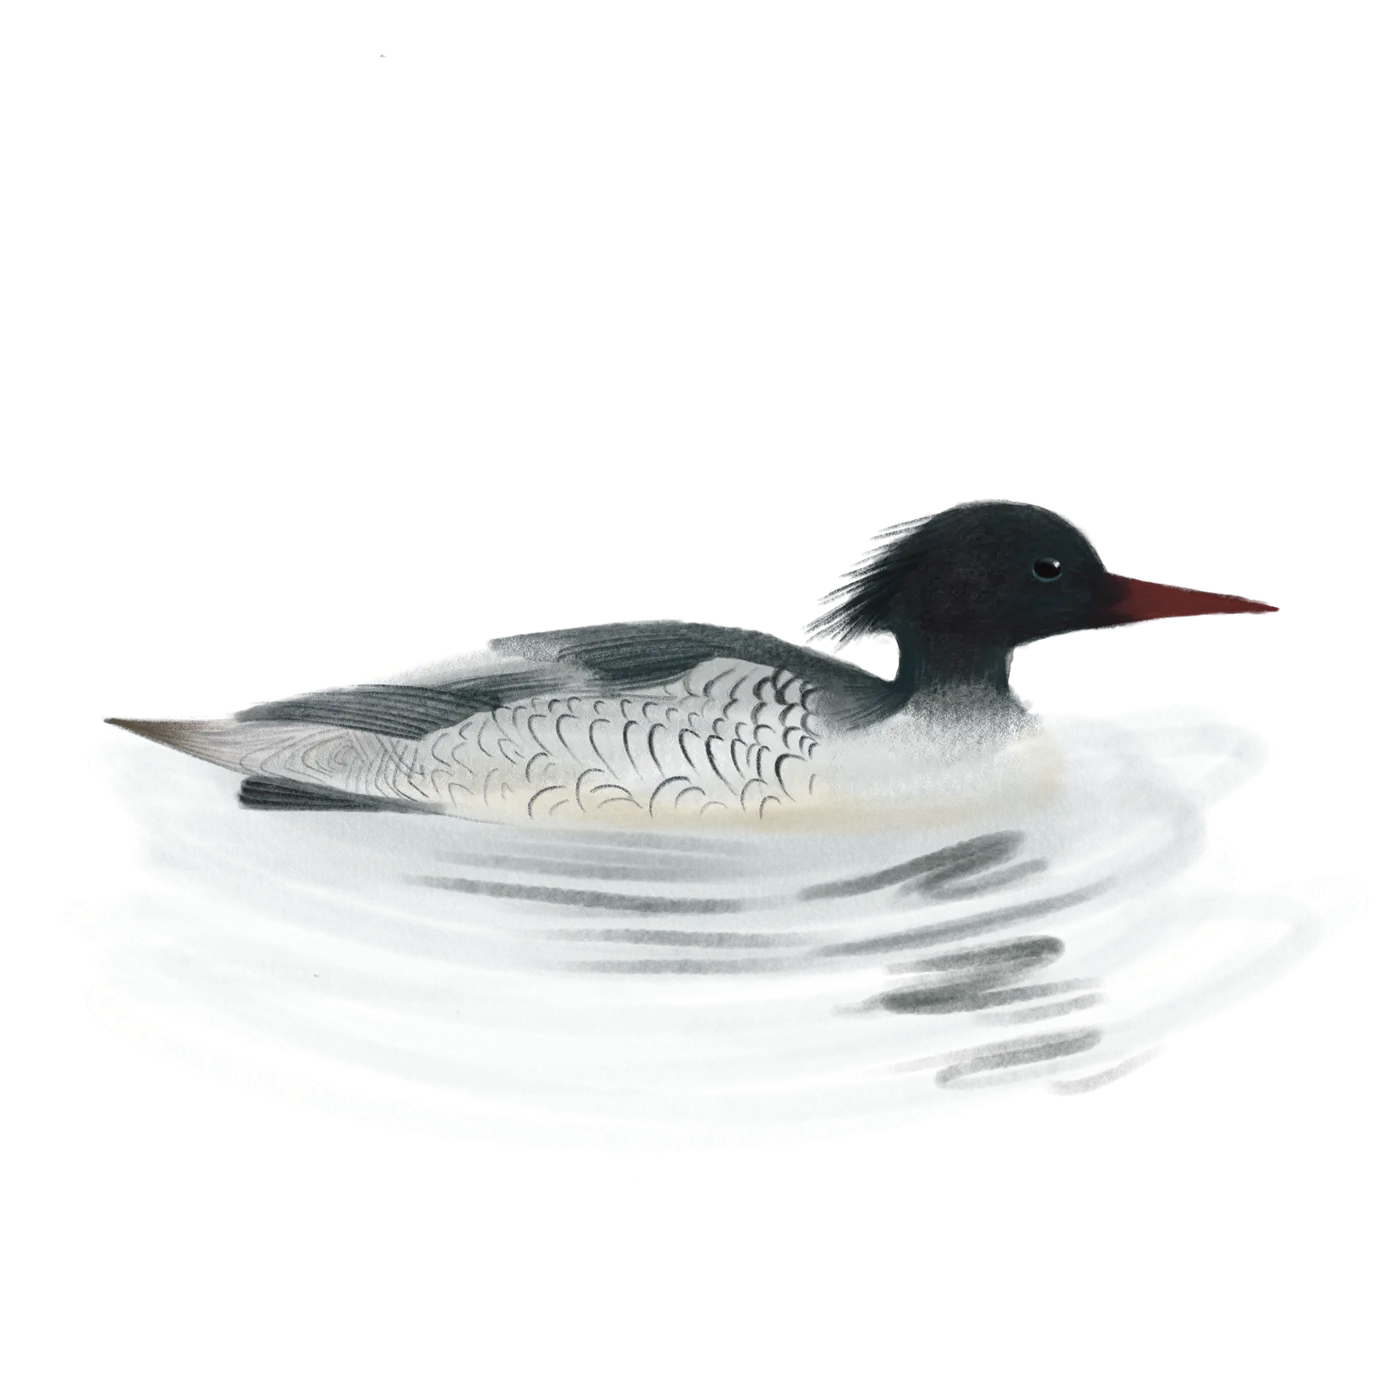
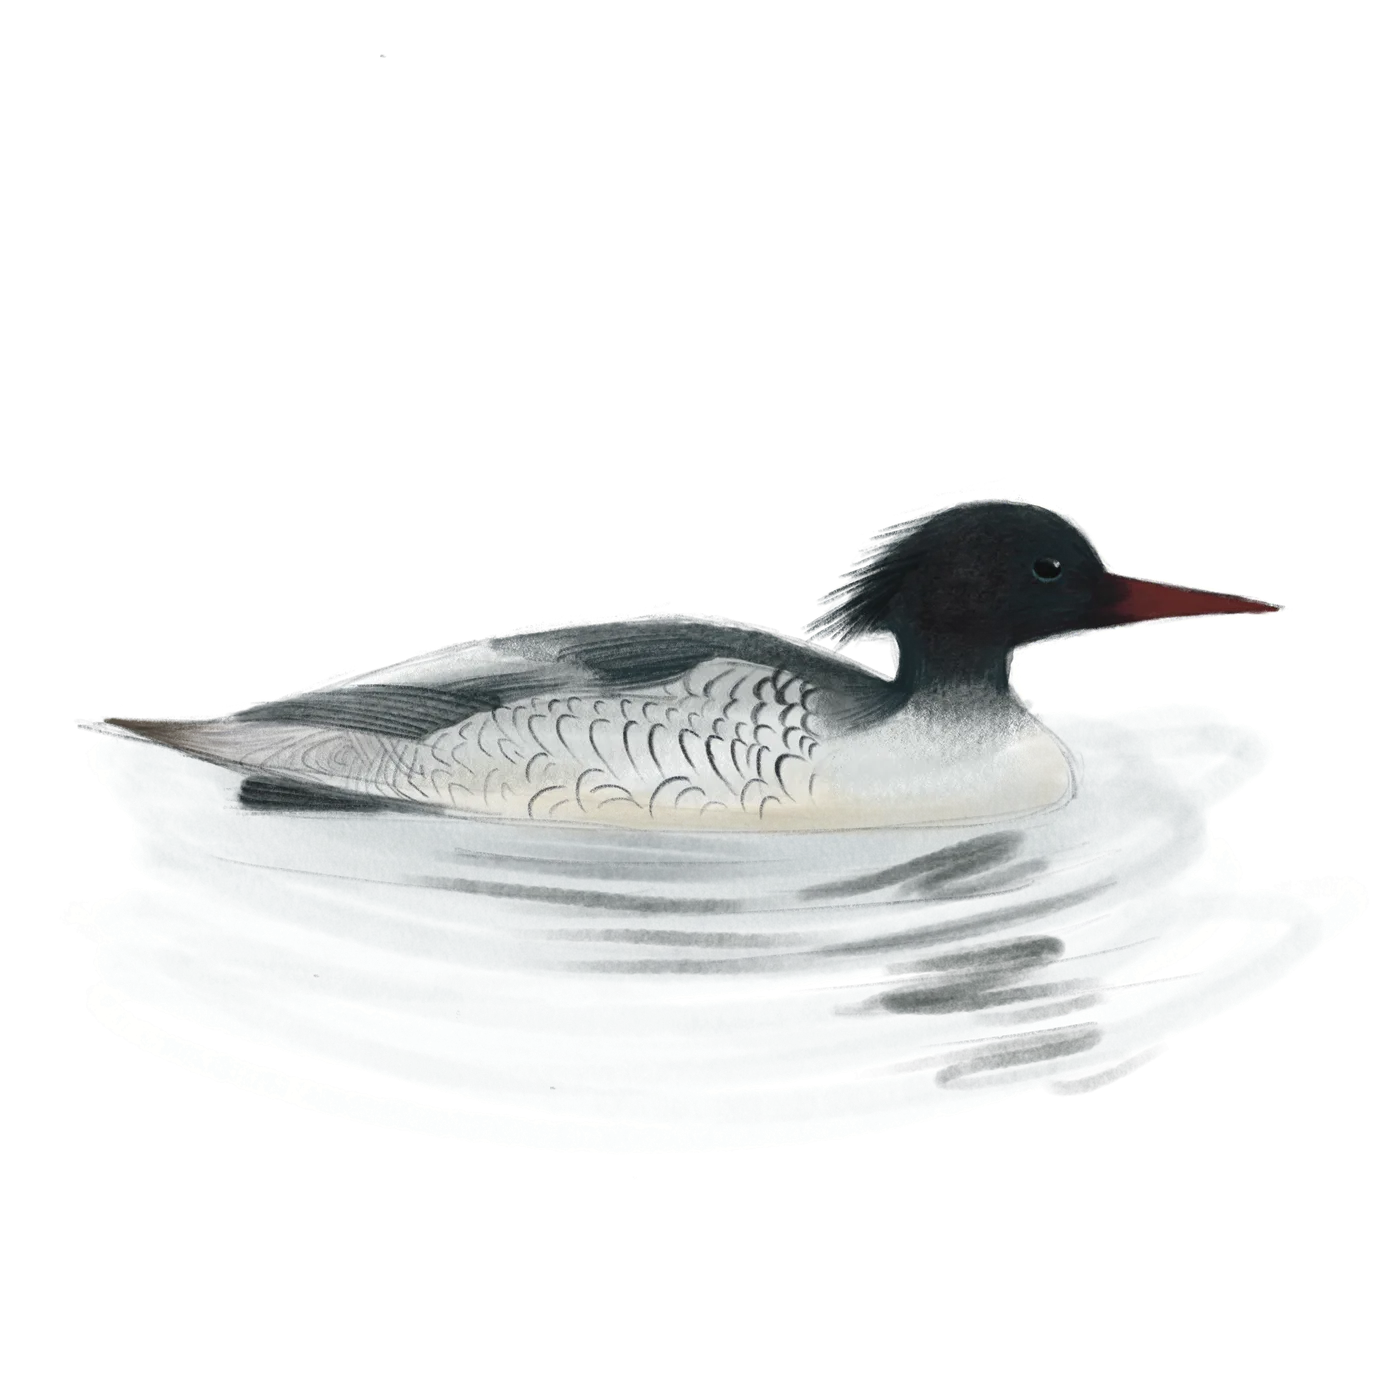
add birds

diff --git a/src/data/artworks.js b/src/data/artworks.js
@@ -223,6 +223,92 @@ export const artworks = [
     conservationStatus: 'EN',
     conservationUrl: 'https://www.iucnredlist.org/species/22680488/244637355',
   },
+  {
+    id: 'chinese_egret',
+    name: 'Chinese Egret',
+    scientificName: 'Egretta eulophotes',
+    lat: 22.5339057604,
+    lng: 114.0322714613,
+    credit: '© gavingoodwan',
+    observationUrl: 'https://www.inaturalist.org/observations/207369546',
+    observedOn: 'April 2024',
+    hasSketch: true,
+    conservationStatus: 'VU',
+    conservationUrl: 'https://www.iucnredlist.org/species/22696977/154698211',
+  },
+  {
+    id: 'ruby_throated_hummingbird',
+    name: 'Ruby-throated Hummingbird',
+    scientificName: 'Archilochus colubris',
+    lat: 35.7732343,
+    lng: -78.8416089,
+    credit: '© srsincary',
+    observationUrl: 'https://www.inaturalist.org/observations/410416358',
+    observedOn: 'Aug 17, 2026 · 10:03 AM EDT',
+    hasSketch: true,
+    conservationStatus: 'LC',
+  },
+  {
+    id: 'mountain_chickadee',
+    name: 'Mountain Chickadee',
+    scientificName: 'Poecile gambeli',
+    lat: 40.3427932,
+    lng: -105.6836389,
+    credit: '© dsmith81',
+    observationUrl: 'https://www.inaturalist.org/observations/410383445',
+    observedOn: 'Oct 7, 2009 · 9:59 AM MDT',
+    hasSketch: true,
+    conservationStatus: 'LC',
+  },
+  {
+    id: 'greater_sage_grouse',
+    name: 'Greater Sage-grouse',
+    scientificName: 'Centrocercus urophasianus',
+    lat: 40.537837552,
+    lng: -106.5286674537,
+    credit: '© David Chernack',
+    observationUrl: 'https://www.inaturalist.org/observations/384778187',
+    observedOn: 'April 2026',
+    hasSketch: true,
+    conservationStatus: 'VU',
+    conservationUrl: 'https://www.iucnredlist.org/species/22679503/277362011',
+  },
+  {
+    id: 'common_kingfisher',
+    name: 'Common Kingfisher',
+    scientificName: 'Alcedo atthis',
+    lat: 6.3545130122,
+    lng: 80.4923677085,
+    credit: '© Sean Rowan Laughlin',
+    observationUrl: 'https://www.inaturalist.org/observations/410332506',
+    observedOn: 'Oct 13, 2026 · 4:34 AM +05:30',
+    hasSketch: true,
+    conservationStatus: 'LC',
+  },
+  {
+    id: 'common_hoopoe',
+    name: 'Common Hoopoe',
+    scientificName: 'Upupa epops',
+    lat: 11.6012902603,
+    lng: 76.1769967899,
+    credit: '© AJMAL SHA',
+    observationUrl: 'https://www.inaturalist.org/observations/410743562',
+    observedOn: 'Oct 25, 2026 · 8:42 AM IST',
+    hasSketch: true,
+    conservationStatus: 'LC',
+  },
+  {
+    id: 'red_shouldered_hawk',
+    name: 'Red-shouldered Hawk',
+    scientificName: 'Buteo lineatus',
+    lat: 34.9848033333,
+    lng: -81.0731055,
+    credit: '© Rick Rauppius',
+    observationUrl: 'https://www.inaturalist.org/observations/411036357',
+    observedOn: 'Oct 26, 2026 · 3:43 PM EDT',
+    hasSketch: true,
+    conservationStatus: 'LC',
+  },
 ].sort((a, b) => a.name.localeCompare(b.name))
 
 // IUCN Red List categories, using the Red List's own color scheme.
